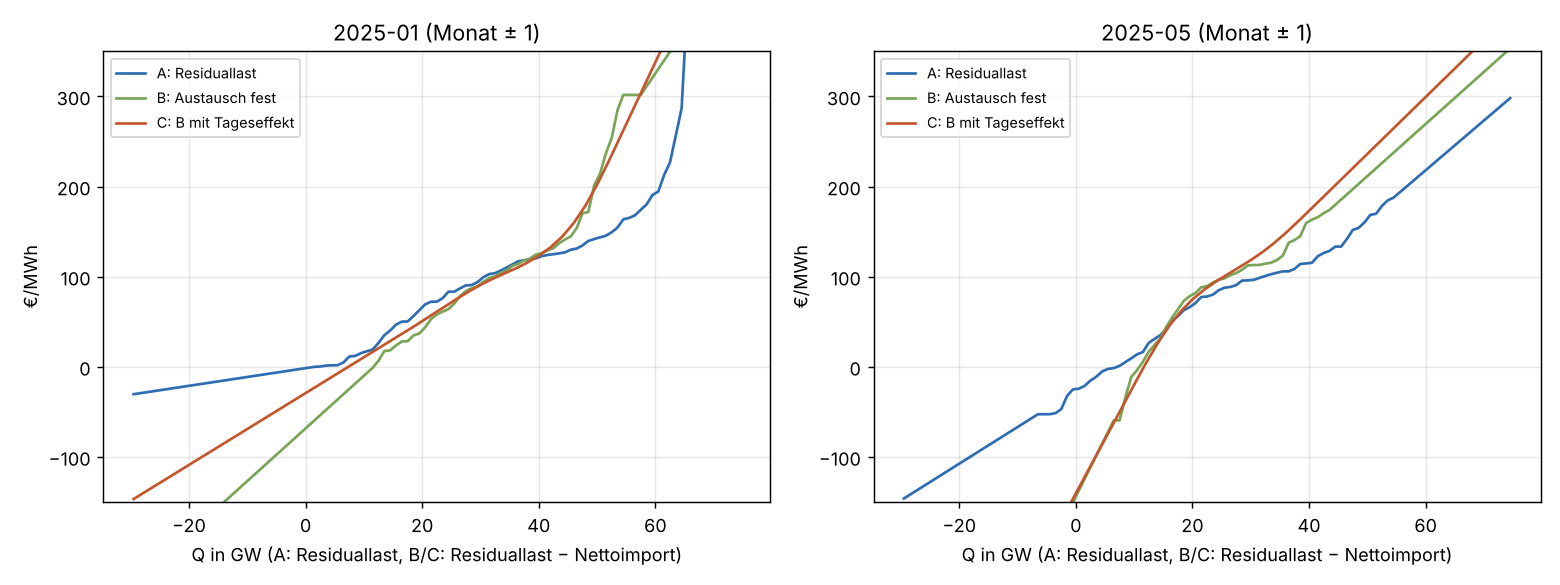
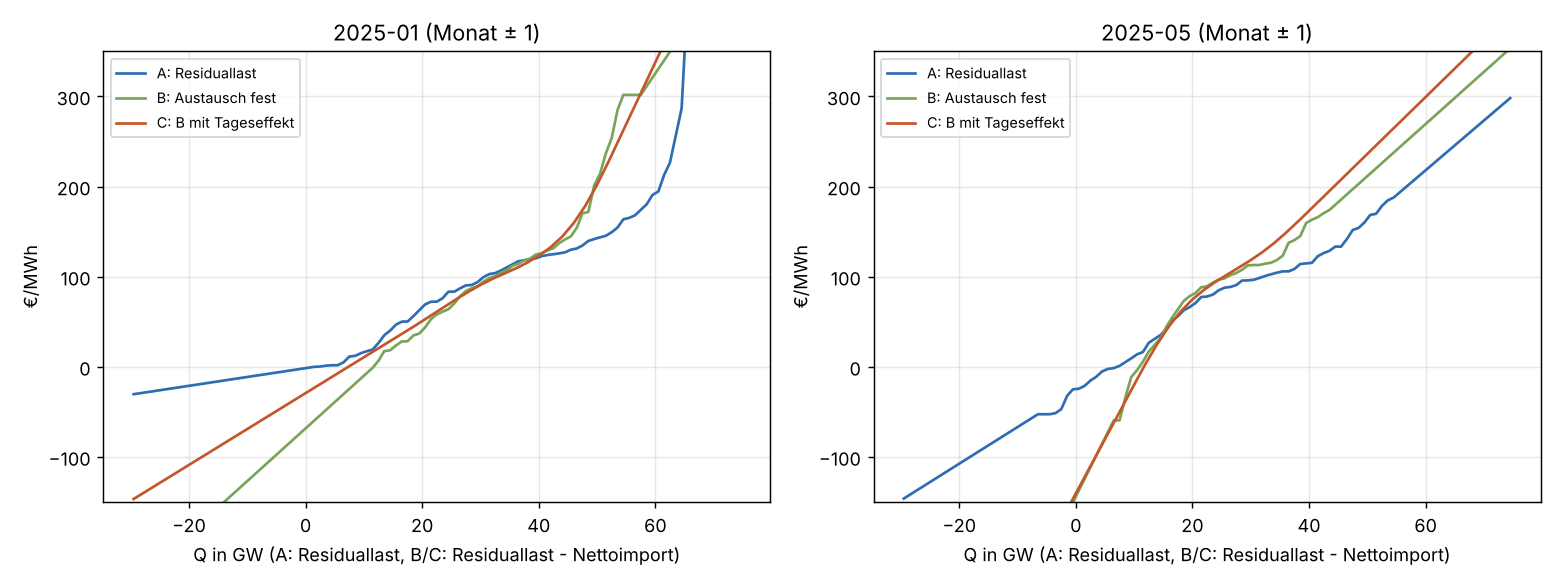
docs(analysen): Batteriespeicher-2025-ISE nach Analyse-Konvention (job.yaml, lauf.json) (#235)
* docs(analysen): Batteriespeicher-2025-ISE mit job.yaml nach Konvention

Auftrag und Parameter stehen jetzt in job.yaml (ARCHITEKTUR 7.9),
auswertung.py liest sie von dort und schreibt tabellen/lauf.json.

Claude-Session: https://claude.ai/code/session_012skVH75Fa1WmhmtaN49tVL

* docs(analysen): Lauf mit job.yaml, lauf.json und README-Gliederung nach 7.9

Neuer Lauf aus den Abrufdaten von abruf.py, Ergebnisse unverändert.
README mit Verweis auf job.yaml und Abschnitten Daten und Methode,
Unsicherheit und Einschränkungen, Nachvollziehen.

Claude-Session: https://claude.ai/code/session_012skVH75Fa1WmhmtaN49tVL

---------

Changed region(s): [[0.6154, 0.9231, 0.9231, 0.9846], [0.1231, 0.9231, 0.4308, 0.9846]]

diff --git a/docs/analysen/batteriespeicher-2025-ise/auswertung.py b/docs/analysen/batteriespeicher-2025-ise/auswertung.py
@@ -1,8 +1,9 @@
 """Nachrechnung: 20 GW / 40 GWh zusätzliche Batteriespeicher im Day-Ahead-Markt DE-LU 2025.
 
-Einmalige Auswertung vom 01.11.2026. Vergleich mit dem Strompreissimulator des Fraunhofer ISE
-(Energy-Charts, Pressemitteilung vom 01.10.2026): Stunden über 200 €/MWh 169 -> 20, Stunden
-mit negativem Preis 575 -> 271, Tagesspanne 130 -> 53 €/MWh.
+Einmalige Auswertung vom 01.11.2026, Auftrag und Parameter in ``job.yaml`` (docs/ARCHITEKTUR.md
+7.9), Laufprotokoll in ``tabellen/lauf.json``. Vergleich mit dem Strompreissimulator des
+Fraunhofer ISE (Energy-Charts, Pressemitteilung vom 01.10.2026): Stunden über 200 €/MWh
+169 -> 20, Stunden mit negativem Preis 575 -> 271, Tagesspanne 130 -> 53 €/MWh.
 
 Das ISE verschiebt die echten aggregierten Kauf- und Verkaufskurven der EPEX. Die sind nicht
 frei. Hier wird die Preisreaktion stattdessen aus freien Daten geschätzt: eine monotone Kurve
@@ -33,15 +34,18 @@ Aufruf aus dem Repository-Wurzelverzeichnis::
 
     uv run --no-project --with requests \\
         python docs/analysen/batteriespeicher-2025-ise/abruf.py ./daten-2025
-    uv run --no-project --with pandas --with numpy --with scipy --with matplotlib \\
+    uv run --no-project --with pandas --with numpy --with scipy --with matplotlib --with pyyaml \\
         python docs/analysen/batteriespeicher-2025-ise/auswertung.py --daten ./daten-2025
 """
 
 from __future__ import annotations
 
 import argparse
+import hashlib
 import itertools
 import json
+import subprocess
+from datetime import UTC, datetime
 from pathlib import Path
 from typing import Any
 
@@ -51,30 +55,27 @@ matplotlib.use("Agg")
 import matplotlib.pyplot as plt
 import numpy as np
 import pandas as pd
+import yaml
 from scipy import sparse
 from scipy.optimize import linprog
 from scipy.sparse import linalg as splinalg
 
 HIER = Path(__file__).resolve().parent
 TZ = "Europe/Berlin"
-JAHR = ("2025-01-01", "2026-01-01")
-VIERTEL_AB = pd.Timestamp("2025-10-01", tz=TZ)  # Day-Ahead in 15-min-Produkten
-ETA = 0.86  # Netz zu Netz
-P_GW = 20.0
-E_GWH = 40.0
-K = 24  # Teilstücke der Leistung im LP
+#: Auftrag und Parameter (docs/ARCHITEKTUR.md 7.9)
+JOB_PFAD = HIER / "job.yaml"
+JOB: dict[str, Any] = yaml.safe_load(JOB_PFAD.read_text())
+_M = JOB["method"]
+JAHR = (str(_M["jahr"]["from"]), str(_M["jahr"]["to"]))
+VIERTEL_AB = pd.Timestamp(str(_M["aufloesung"]["bis"]), tz=TZ)  # Day-Ahead in 15-min-Produkten
+ETA = float(_M["speicher"]["wirkungsgrad"])  # Netz zu Netz
+P_GW = float(_M["speicher"]["leistung_gw"])
+E_GWH = float(_M["speicher"]["energie_gwh"])
+K = int(_M["fahrplan"]["leistungsstufen"])  # Teilstücke der Leistung im LP
 #: Alterungskosten je MWh Entladung (ISE nennt Alterungskosten, aber keinen Wert)
-ALTERUNG = [0.0, 10.0]
+ALTERUNG = [float(x) for x in _M["alterung_eur_mwh"]]
 #: Ergebnisse des Fraunhofer ISE (Pressemitteilung vom 01.10.2026, ZfK vom 28.09.2026)
-ISE = {
-    "ueber_200_h": (169, 20),
-    "neg_h": (575, 271),
-    "spanne": (130, 53),
-    "mittel": (89.32, 89.44),
-    "pv_marktwert": (45.08, 61.02),
-    "max": (583, 221),
-    "min": (-250, -20),
-}
+ISE = {k: tuple(v) for k, v in JOB["inputs"]["vergleich"]["ise"].items()}
 GITTER = np.arange(-80.0, 120.01, 0.5)
 FARBE = {
     "A": "#2f6db3",
@@ -85,16 +86,20 @@ FARBE = {
     "E2": "#8a6d1a",
     "ISE": "#444444",
 }
-VARIANTEN = ["A", "B", "C", "D", "E", "E2"]
+VARIANTEN = list(_M["varianten"])
 #: mittlerer Prognosefehler Wind + PV (Prognose - Ist) in Stunden mit Preis > 30 €/MWh, 10-16 Uhr,
 #: April bis September 2025 (gemessen, siehe README)
-PROGNOSEFEHLER_GW = 1.0
+PROGNOSEFEHLER_GW = float(_M["prognosefehler_gw"])
 #: Preisklassen für die Steigung s(p) in Variante D (€/MWh)
-KLASSEN = [-1e9, -50, -10, -2, 0.5, 10, 40, 70, 90, 110, 130, 160, 200, 260, 1e9]
+KLASSEN = [float(x) for x in _M["preisklassen_eur_mwh"]]
 PGITTER = np.arange(-1000.0, 5000.01, 0.05)
 
 
 # ---------------------------------------------------------------- Daten
+#: fehlende Werte, die beim Laden ersetzt wurden (für tabellen/lauf.json)
+LUECKEN: dict[str, int] = {}
+
+
 def lade(ordner: Path) -> pd.DataFrame:
     pr = json.loads((ordner / "price.json").read_text())
     pp = json.loads((ordner / "public_power.json").read_text())
@@ -118,7 +123,11 @@ def lade(ordner: Path) -> pd.DataFrame:
         index=pd.to_datetime(pr["unix_seconds"], unit="s", utc=True).tz_convert(TZ),
         dtype=float,
     )
-    df["price"] = p.reindex(df.index).ffill(limit=3)  # Stundenpreis auf die Viertelstunden
+    p15 = p.reindex(df.index)
+    im_jahr = (df.index >= pd.Timestamp(JAHR[0], tz=TZ)) & (df.index < pd.Timestamp(JAHR[1], tz=TZ))
+    ab_okt = im_jahr & (df.index >= VIERTEL_AB)
+    LUECKEN["preis_viertelstunden_ab_oktober_fehlend"] = int(p15[ab_okt].isna().sum())
+    df["price"] = p15.ffill(limit=3)  # Stundenpreis auf die Viertelstunden
     df["steuerbar"] = df.residual - df["import"]
     # Abregelung bei negativen Preisen, geschätzt: Day-Ahead-Prognose Wind + PV minus Ist,
     # abzüglich des mittleren Prognosefehlers in Stunden mit normalem Preis
@@ -142,6 +151,8 @@ def lade(ordner: Path) -> pd.DataFrame:
     )
     df["prog_minus_ist"] = fc.sum(axis=1, min_count=3) - ist
     df = df.dropna(subset=["price", "load", "residual", "import"])
+    jahr = (df.index >= pd.Timestamp(JAHR[0], tz=TZ)) & (df.index < pd.Timestamp(JAHR[1], tz=TZ))
+    LUECKEN["prognose_viertelstunden_fehlend_als_0"] = int(df.prog_minus_ist[jahr].isna().sum())
     df["prog_minus_ist"] = df.prog_minus_ist.fillna(0)
     return df
 
@@ -392,6 +403,7 @@ def main() -> None:
     ap = argparse.ArgumentParser()
     ap.add_argument("--daten", type=Path, required=True)
     a = ap.parse_args()
+    gestartet = datetime.now(UTC).isoformat(timespec="seconds")
     tab, gra = HIER / "tabellen", HIER / "grafiken"
     tab.mkdir(exist_ok=True)
     gra.mkdir(exist_ok=True)
@@ -591,6 +603,32 @@ def main() -> None:
     fig.tight_layout()
     fig.savefig(gra / "preisdauerlinie.png", dpi=130)
     plt.close(fig)
+
+    commit = subprocess.run(
+        ["git", "rev-parse", "HEAD"], capture_output=True, text=True, cwd=HIER
+    ).stdout.strip()
+    lauf = {
+        "job": JOB["id"],
+        "job_sha256": hashlib.sha256(JOB_PFAD.read_bytes()).hexdigest(),
+        "git_commit": commit,
+        "gestartet": gestartet,
+        "beendet": datetime.now(UTC).isoformat(timespec="seconds"),
+        "eingaben_sha256": {
+            f.name: hashlib.sha256(f.read_bytes()).hexdigest()
+            for f in sorted(a.daten.glob("*.json"))
+        },
+        "zeitraum": {"von": JAHR[0], "bis": JAHR[1]},
+        "zeitschritte": {
+            "stunden_bis_30_09": int((df.dt == 1.0).sum()),
+            "viertelstunden_ab_01_10": int((df.dt == 0.25).sum()),
+            "stunden_gesamt": float(df.dt.sum()),
+        },
+        "fehlende_werte_ersetzt": LUECKEN,
+        "schritte_zeitlich_interpoliert": {},
+        "varianten": VARIANTEN,
+        "alterung_eur_mwh": ALTERUNG,
+    }
+    (tab / "lauf.json").write_text(json.dumps(lauf, indent=1, ensure_ascii=False) + "\n")
 
 
 if __name__ == "__main__":

diff --git a/docs/analysen/batteriespeicher-2025-ise/README.md b/docs/analysen/batteriespeicher-2025-ise/README.md
@@ -1,9 +1,10 @@
 # Batteriespeicher 2025 nachgerechnet: Abgleich mit dem Fraunhofer ISE
 
-Einmalige Auswertung vom 01.11.2026. Frage: Wie hätten 20 GW / 40 GWh zusätzliche
-Batteriespeicher den Day-Ahead-Preis DE-LU im Jahr 2025 verändert, und lässt sich das Ergebnis des
-Fraunhofer ISE mit freien Daten bestätigen? Das ISE kommt mit den echten Gebotskurven der EPEX auf
-169 → 20 Stunden über 200 €/MWh und 575 → 271 Stunden mit negativem Preis.
+Einmalige Auswertung vom 01.11.2026, Auftrag in [job.yaml](job.yaml). Frage: Wie hätten
+20 GW / 40 GWh zusätzliche Batteriespeicher den Day-Ahead-Preis DE-LU im Jahr 2025 verändert, und
+lässt sich das Ergebnis des Fraunhofer ISE mit freien Daten bestätigen? Das ISE kommt mit den
+echten Gebotskurven der EPEX auf 169 → 20 Stunden über 200 €/MWh und 575 → 271 Stunden mit
+negativem Preis.
 
 ## Ergebnis in Kürze
 
@@ -88,7 +89,7 @@ Die Ist-Werte stimmen mit unseren Daten überein: 574,75 Stunden mit negativem P
 wir 165,75 (≥ 200: 168,5), das ISE 169. Gezählt werden Viertelstunden ab dem 01.10.2025 als
 Viertelstunden, davor Stunden.
 
-## Rechnung
+## Daten und Methode
 
 Daten: Energy-Charts (Fraunhofer ISE), CC BY 4.0: Day-Ahead-Preis DE-LU (Bundesnetzagentur |
 SMARD.de), öffentliche Nettoerzeugung, Last, Residuallast und kommerzieller Außenhandel
@@ -202,7 +203,7 @@ bis 5 €/MWh höher, die Stunden über 200 €/MWh ändern sich nicht. Bei E si
 Stunden leicht (249 statt 263). Das ist kein echter Effekt: Auf dem Plateau ist der Preis flach,
 und das Programm verteilt die Ladung dann beliebig auf gleich teure Stunden.
 
-## Grenzen
+## Unsicherheit und Einschränkungen
 
 - Alle Varianten verschieben den gemessenen Preis. Sie können eine Stunde nicht über einen Sprung
   der Angebotskurve heben, den es in den Daten nie gab (etwa ein Blockgebot, das ausscheidet).
@@ -217,8 +218,12 @@ und das Programm verteilt die Ladung dann beliebig auf gleich teure Stunden.
 - Ein Speicherbestand von 2025 steckt bereits in den Preisen, gerechnet wird der Zubau darüber
   hinaus (wie beim ISE).
 
-## Dateien
+## Nachvollziehen
 
+- [job.yaml](job.yaml): Auftrag und alle Parameter (Speicher, Varianten, Preisklassen), die
+  `auswertung.py` liest.
+- [tabellen/lauf.json](tabellen/lauf.json): Laufprotokoll mit Commit, Hash der `job.yaml`,
+  Hashes der Eingangsdateien, Zeitschritten und ersetzten fehlenden Werten.
 - [abruf.py](abruf.py): Daten von Energy-Charts (Preis, Erzeugung, Last, Außenhandel,
   Day-Ahead-Prognosen Wind und PV).
 - [auswertung.py](auswertung.py): Kurven, Simulation, Tabellen und Grafiken (Laufzeit etwa 8 min).
@@ -234,6 +239,6 @@ Aufruf aus dem Repository-Wurzelverzeichnis:
 
 ```bash
 uv run --no-project --with requests python docs/analysen/batteriespeicher-2025-ise/abruf.py ./daten-2025
-uv run --no-project --with pandas --with numpy --with scipy --with matplotlib \
+uv run --no-project --with pandas --with numpy --with scipy --with matplotlib --with pyyaml \
     python docs/analysen/batteriespeicher-2025-ise/auswertung.py --daten ./daten-2025
 ```
